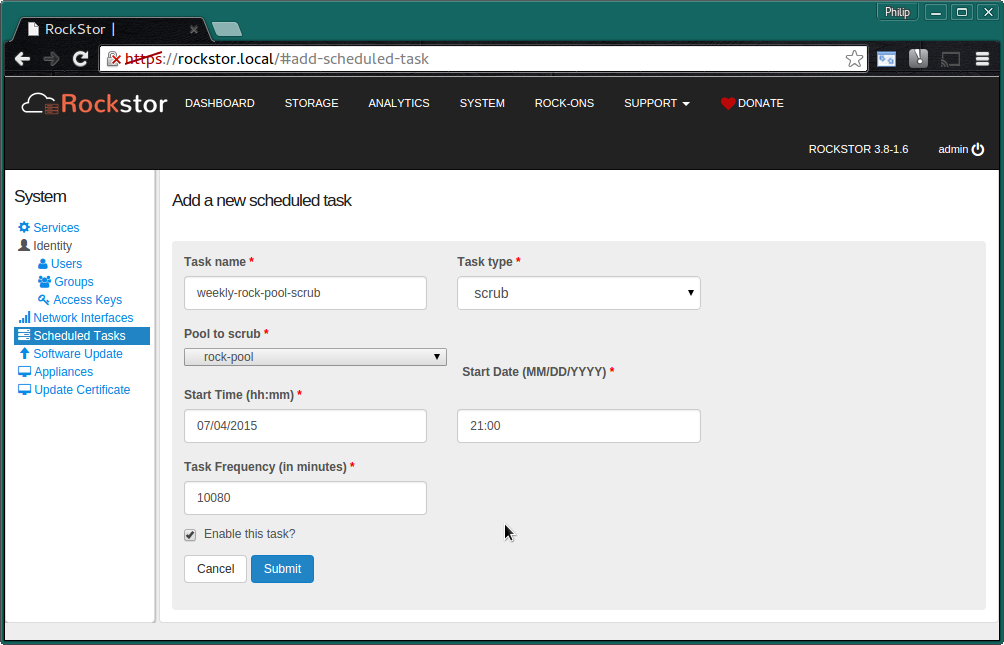
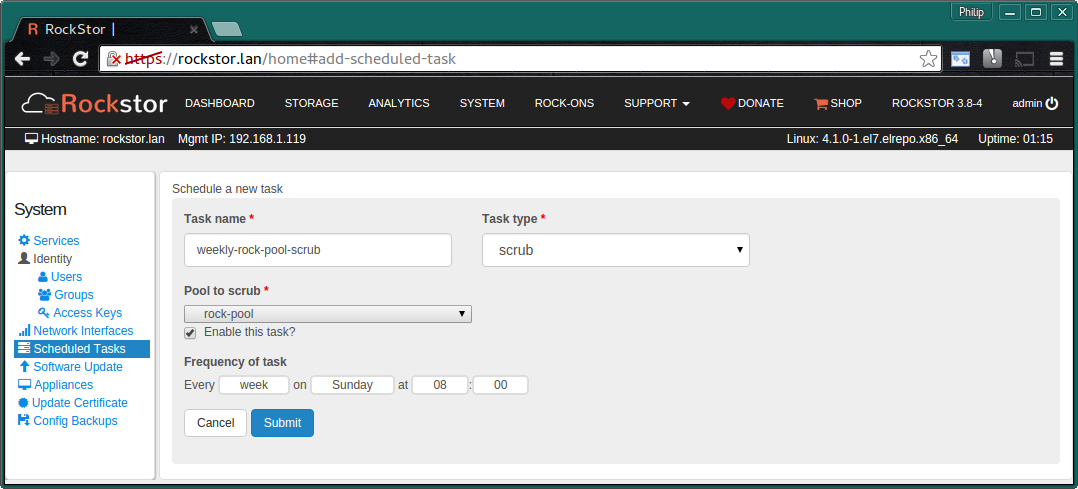
Mostly update tasks page with new 3.8-4 layouts

diff --git a/tasks.rst b/tasks.rst
@@ -9,9 +9,19 @@ and are run at a specified frequency. The types of tasks currently supported are
 * Pool scrub
 * Share Snapshot 
 
-On the Web-UI **System** page select **Scheduled Tasks** and **Enable** the **Task
-Scheduler**. To create a new task click the **Add Scheduled Task** button.
+.. _tasksenable:
 
+Enable / Disable all Tasks
+--------------------------
+
+On the Web-UI **System** page under **Services** there is a **Task Scheduler**
+switch which will enable or disable all Tasks at once.
+
+To create a new task click the **Add Scheduled Task** button in the
+**Scheduled Tasks** section of the **System** page; see the following sections
+:ref:`scrubtask` and :ref:`snapshottask` for examples of creating tasks.
+
+.. _scrubtask:
 
 Create a Scrub Task
 -------------------
@@ -20,11 +30,11 @@ To create a scrub task enter the following:-
 
 * **Task name** and **Task type** ie *scrub*
 * **Pool to scrub** from the drop down
-* **Start Date**, **Start time**, and **Task frequency** in minutes
+* **Frequency of task** ie how often and when
 
 
 .. image:: scrub_task.png
-   :scale: 100 %
+   :scale: 80 %
    :align: center
 
 Then the **Submit** button.
@@ -40,29 +50,38 @@ To create a snapshot task enter the following:-
 * **Share** to snapshot
 * **Snapshot prefix** the file name will be *prefix_YYYYMMDDHHMMSS*
 * **Maximum count** keep only this number of the most recent snapshots
-* **Start Date**, **Start time**, and **Task frequency** in minutes
+* **Frequency of tasks** ie how often and when
 
 .. image:: mpsnapshot_daily.png
-   :scale: 100 %
+   :scale: 80 %
    :align: center
 
 Then the **Submit** button.
 
 
-Enable / Disable one or all Tasks
----------------------------------
 
-On the Web-UI **System** page select **Scheduled Tasks**.
-The **Task Scheduler** switch will enable or disable all Tasks at once.
+.. _tasksedit:
 
-If you wish to Enable / Disable an **individual task** use that task's
-respective **tick box** in the *Enabled column*
+Edit an Existing Task
+---------------------
 
+If you wish to Enable / Disable / Edit an **Existing task** use that task's
+respective **pen icon** in the **Actions column** on the **System** page
+**Scheduled Tasks** section.
 
 .. image:: tasks_list.png
-   :scale: 100 %
+   :scale: 80 %
    :align: center
 
+And clicking on the **pen** of an **existing task** results in:-
+
+.. image:: task_edit.png
+   :scale: 80 %
+   :align: center
+
+Note the **Enable task?** tick box within this edit page.
+
+.. _taskdelete:
 
 Delete a Task
 -------------
